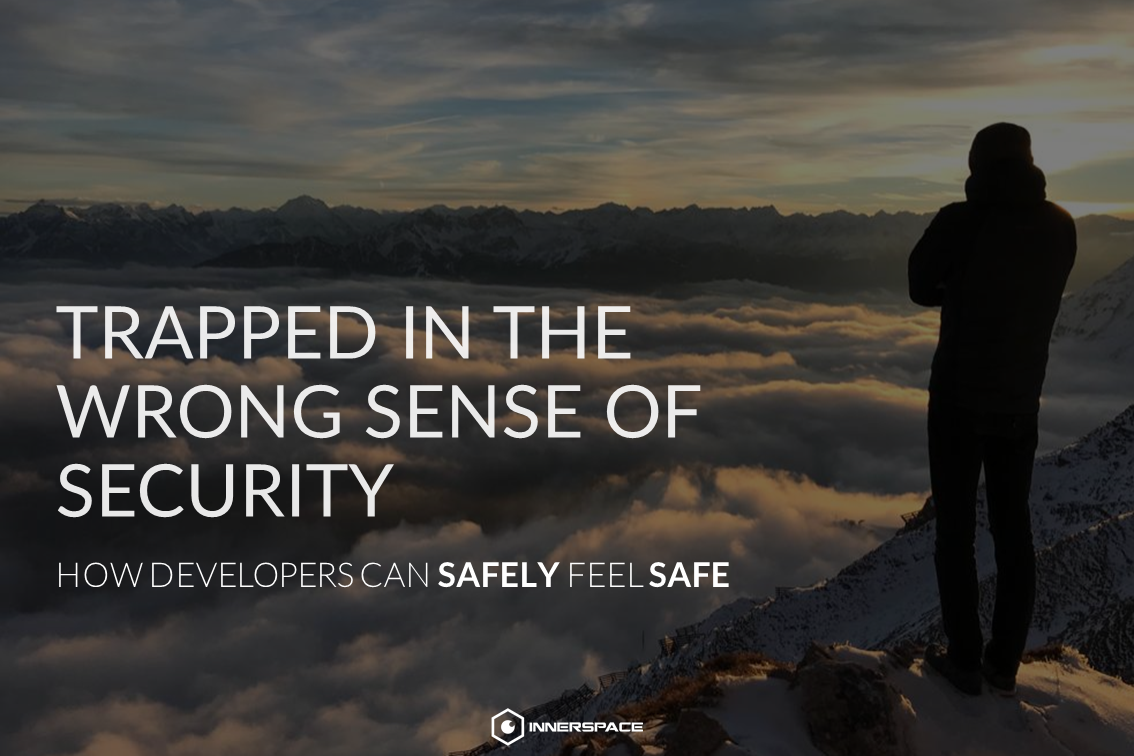
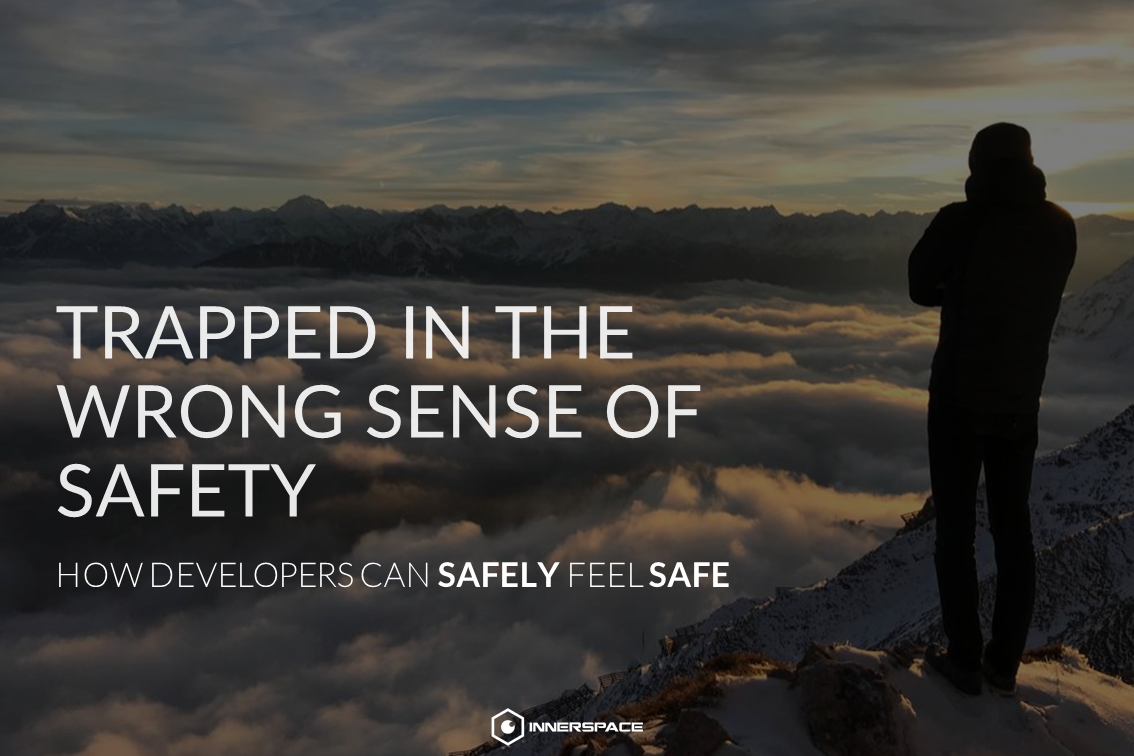
[chore]: added English wording and removed TODO comment from README.md

diff --git a/README.md b/README.md
@@ -1,18 +1,18 @@
-<h1 align="center">Die Falle des falschen Sicherheitsgefühls</h1>
+<h1 align="center">Trapped in the wrong sense of safety</h1>
 <div align="center">
-  <span>Wie sich Entwickler <strong>sicher sicher</strong> fühlen.</span>
+  <span>How developers can <strong>safely</strong> feel <strong>safe</strong>.</span>
 </div>
 <br />
 
 ![frontpage](frontpage.png)
 
-> Unterlagen zu meinem Vortrag wie sich Softwareentwickler durch Mindset und Technologie sicherer fühlen können. 
+> Materials for my talk about how developers can finally feel confident by applying a different mindset and using technology. A small part of the slides is in German - sorry for that. 
 
 ## Examples
 All the examples can be found under [`./examples`](./examples).
 
 ## Slides
-TODOThe slides are available [**@pptx**](./slides.pptx) and [**@PowerPoint Online**](https://mayrio-my.sharepoint.com/:p:/g/personal/bernhard_mayr_io/EQ6gxBAUzg1LnVd4Ey69vj8Bmq2anV1X2RF1_uaEosdb7Q?e=l7jESM).
+The slides are available [**@pptx**](./slides.pptx) and [**@PowerPoint Online**](https://mayrio-my.sharepoint.com/:p:/g/personal/bernhard_mayr_io/EQ6gxBAUzg1LnVd4Ey69vj8Bmq2anV1X2RF1_uaEosdb7Q?e=l7jESM).
 
 ## Presentations
 - *13.12.2018:* Quality Management // SE Master // FH Hagenberg [:file_folder:](https://github.com/bemayr/talk.developer-confidence/releases/tag/2018-12-13-hagenberg)
